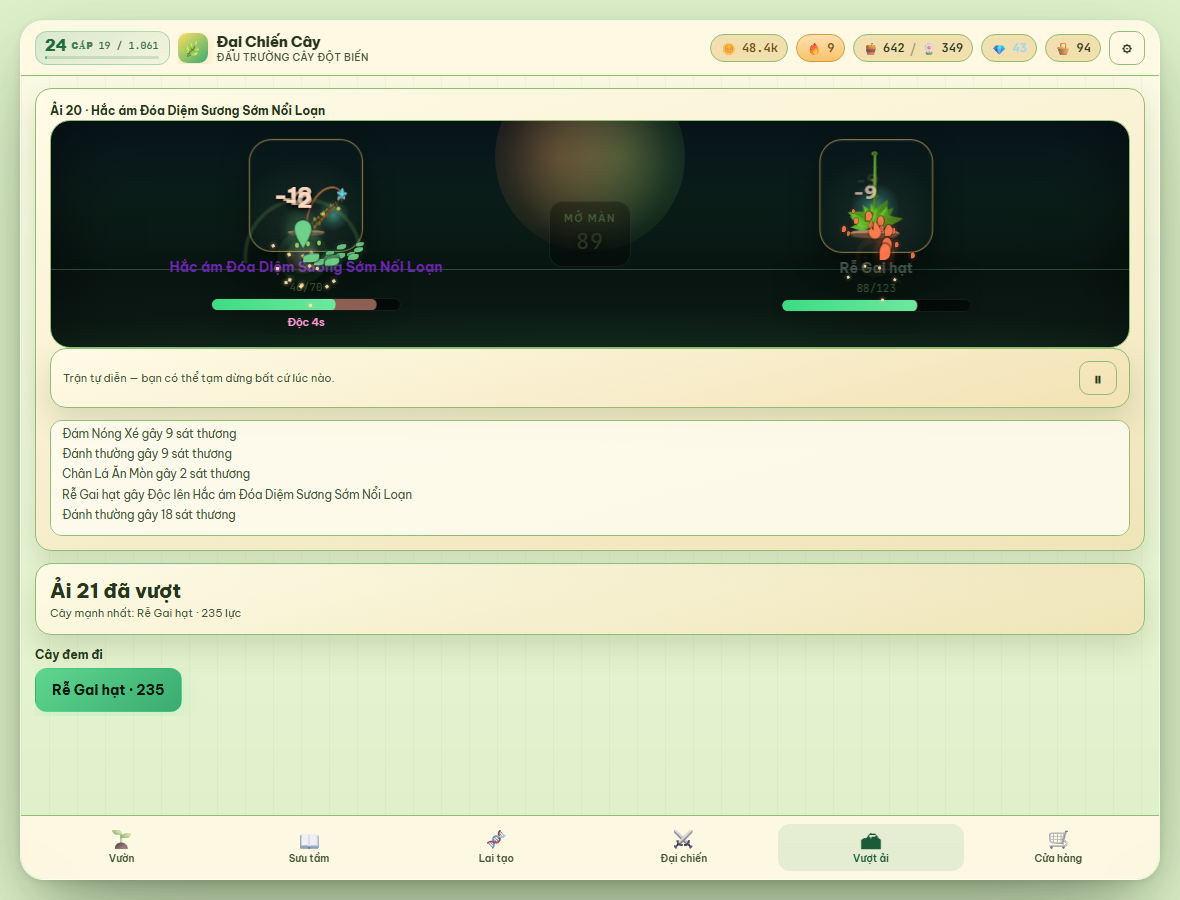
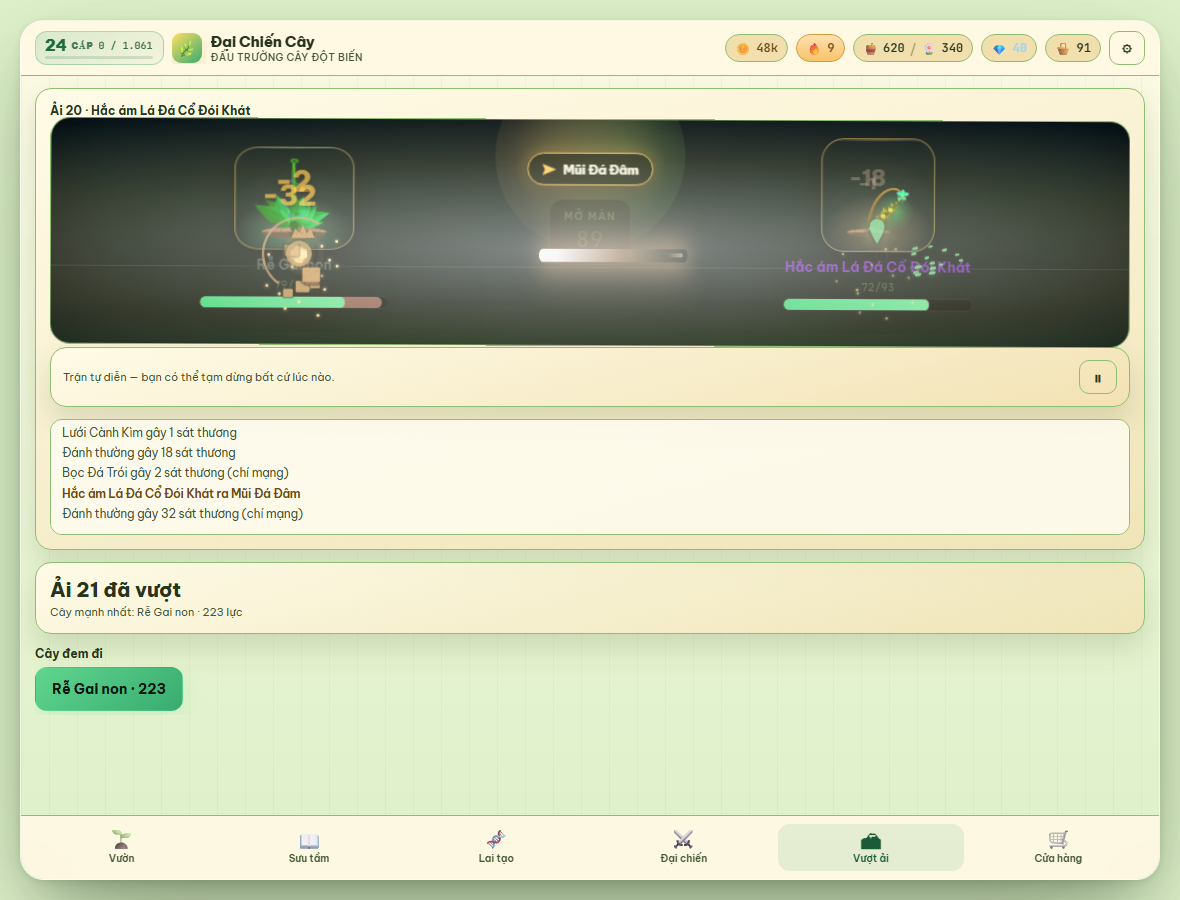
Stand on the left, plus a smoother shell
The player fought from the right, which is the side every battler
trained its players to read as "theirs". Mine now stands on the left:
the mirror moved from .enemy to .b-side (base art faces left, so the
fighter on the left is the one that needs flipping), the lunge keyframe
for the mirrored plant composes scaleX(-1) so it stays flipped through
its own attack, and knockback pushes off the side each fighter stands
on — keyed to mySide so the mirrored PvP view pushes the right way too.

Smoother shell: route changes rise-and-fade in (only on actual route
changes — every care action re-navigates to garden, and animating those
would breathe once per watering can); buttons lift a pixel on a real
hover pointer; plots lift before they sink on press.

Generated with [Devin](https://devin.ai)

Changed region(s): [[0.0305, 0.0311, 0.9763, 0.6844], [0.0305, 0.7156, 0.1525, 0.7778], [0.5797, 0.0311, 0.6407, 0.0622]]

diff --git a/src/styles.css b/src/styles.css
@@ -218,6 +218,24 @@ body {
   scrollbar-color: var(--line) transparent;
 }
 
+/* Route transitions: a short rise-and-fade when a different screen mounts.
+   Same-route repaints never get the class — every care action re-navigates to
+   "garden", and animating those would make the garden breathe once per
+   watering can. */
+.route-enter {
+  animation: routeIn 0.3s cubic-bezier(0.2, 0.9, 0.3, 1) both;
+}
+@keyframes routeIn {
+  from {
+    opacity: 0;
+    transform: translateY(10px);
+  }
+  to {
+    opacity: 1;
+    transform: none;
+  }
+}
+
 .garden-pulse {
   position: relative;
   overflow: hidden;
@@ -776,6 +794,14 @@ h4 {
   gap: 8px;
 }
 
+/* Hover lift is gated on a real pointer: on touch, :hover sticks after the
+   tap and the button would sit raised until something else was touched. */
+@media (hover: hover) {
+  .btn:hover:not(:disabled) {
+    transform: translateY(-1px);
+    filter: brightness(1.05);
+  }
+}
 .btn:active {
   transform: scale(0.975);
 }
@@ -973,8 +999,10 @@ h4 {
   gap: 8px;
   min-width: 0;
 }
-/* The enemy is mirrored so the two plants face each other across the clock. */
-.battler.enemy .avatar .plantart {
+/* The fighter on the left — yours — is mirrored so the two plants face each
+   other across the clock. The base art faces left, which is what the enemy on
+   the right wants already. */
+.battler.b-side .avatar .plantart {
   transform: scaleX(-1);
 }
 
@@ -1070,8 +1098,8 @@ h4 {
   transform: rotate(16deg) translateY(14px) scale(0.94);
   transition: transform 0.45s cubic-bezier(0.3, 0.7, 0.4, 1);
 }
-.battler.enemy.dead .avatar .plantart {
-  /* The enemy is mirrored, so the same fall needs the mirror composed in. */
+.battler.b-side.dead .avatar .plantart {
+  /* Your fighter is mirrored, so the same fall needs the mirror composed in. */
   transform: scaleX(-1) rotate(16deg) translateY(14px) scale(0.94);
 }
 .battler .avatar {
@@ -1789,7 +1817,10 @@ h4 {
   box-shadow: 0 22px 16px rgba(48, 78, 100, 0.3);
 }
 
-.plot:hover {
+/* :not(:active) keeps the press-sink honest — without it this rule outranks
+   .plot:active and a click would lift the island instead of pressing it. */
+.plot:hover:not(:active) {
+  transform: translateY(-3px);
   box-shadow: 0 38px 28px rgba(48, 78, 100, 0.34);
 }
 
@@ -2101,20 +2132,24 @@ h4 {
     transform: translateX(0) scale(1);
   }
 }
-.battler.b-enemy.attack .plantart {
-  animation-name: lunge-back;
+/* Your fighter attacks from the left: the lunge travels right, and because the
+   plant is mirrored the whole keyframe composes scaleX(-1) — otherwise the
+   sprite would un-flip for the duration of its own attack. */
+.battler.b-side.attack .plantart {
+  animation-name: lunge-mirror;
 }
-@keyframes lunge-back {
+@keyframes lunge-mirror {
   0% {
-    transform: translateX(0) scale(1);
+    transform: scaleX(-1) translateX(0) scale(1);
   }
   38% {
-    transform: translateX(14px) scale(1.06);
+    transform: scaleX(-1) translateX(-14px) scale(1.06);
   }
   100% {
-    transform: translateX(0) scale(1);
+    transform: scaleX(-1) translateX(0) scale(1);
   }
 }
+
 
 .plot .ribbon {
   position: absolute;

diff --git a/src/battle/battleView.ts b/src/battle/battleView.ts
@@ -260,7 +260,9 @@ estartTimer. */
     this.clock = el("div", { class: "clock" }, [`${this.maxSeconds}`]);
     center.append(this.phaseLabel, this.clock);
 
-    field.append(this.sides[other].root, center, this.sides[mine].root);
+    /* Mine reads from the left — the convention every battler on this planet
+       taught its players. The opponent stands on the right. */
+    field.append(this.sides[mine].root, center, this.sides[other].root);
 
     // The contact wash. Owned by the arena so the juice layer has something to
     // drive without reaching into the effects markup.
@@ -634,8 +636,12 @@ estartTimer. */
           const maxHp = Math.max(1, this.session.side(victim).snap.maxHp);
           const weight = weightFor(amount / maxHp, ev.isCrit === true, (ev.hpAfter ?? 1) <= 0);
           const attacker = (ev.side ?? (victim === "a" ? "b" : "a")) as FxSide;
-          // The victim is pushed away from whoever hit it.
-          const push = victim === "a" ? -1 : 1;
+          /* The victim is pushed away from whoever hit it — outward, off the
+             side of the screen it stands on. Mine always stands on the left
+             now, so the sign keys off mySide, not the engine's a/b: under a
+             mirrored view (the PvP guest) the engine's `a` is the fighter on
+             the right. */
+          const push = victim === this.opts.mySide ? -1 : 1;
           const cast = this.lastCast;
           // Reuse the cast's delivery and colour if it was recent enough to be the
           // same action, so a trap that armed and then erupts erupts as a trap.

diff --git a/tools/probe-side.ts b/tools/probe-side.ts
@@ -1,0 +1,33 @@
+import { chromium } from "playwright-core";
+
+async function main() {
+  const b = await chromium.launch({ channel: "chrome" });
+  const p = await b.newPage({ viewport: { width: 390, height: 844 } });
+  await p.goto("http://localhost:5173", { waitUntil: "networkidle" });
+  await p.waitForFunction(() => Boolean((window as unknown as { __game?: unknown }).__game), { timeout: 20000 });
+  await p.waitForTimeout(700);
+  await p.evaluate(`(() => {
+    const g = (window).__game, s = g.store;
+    s.state.breederLevel = 24;
+    s.state.leafCoin = 48000;
+    for (const pl of s.state.plants) { pl.growth.stage = "mature"; pl.growth.level = 20; }
+    s.state.ascent.highest = 21;
+    if (!s.state.ascent.day) s.state.ascent.day = new Date().toISOString().slice(0, 10);
+    g.navigate("ascent");
+  })()`);
+  await p.waitForTimeout(1100);
+  await p.evaluate(`(() => { document.querySelector("[data-stage-fight]")?.click(); })()`);
+  await p.waitForTimeout(700);
+  await p.evaluate(`(() => {
+    const b = [...document.querySelectorAll(".overlay button, .stagebrief button")].find((x) => /^Bắt đầu/.test((x.textContent || "").trim()));
+    if (b) b.click();
+  })()`);
+  await p.waitForTimeout(2600);
+  await p.screenshot({ path: "shots/probe-side.png" });
+  const order = await p.evaluate(() =>
+    Array.from(document.querySelectorAll(".battlefield .battler")).map((n) => (n.className.includes("enemy") ? "enemy" : "mine")),
+  );
+  console.log("battler order:", JSON.stringify(order));
+  await b.close();
+}
+main();

diff --git a/src/ui/app.ts b/src/ui/app.ts
@@ -98,6 +98,7 @@ let levelBadge: HTMLElement | null = null;
 let noticeHost: HTMLElement | null = null;
 
 let current: Screen = "garden";
+let lastRoute: Screen | null = null;
 let screenHost: HTMLElement;
 let navHost: HTMLElement;
 /** The wide-layout rails beside the screen. Empty panels collapse in CSS. */
@@ -169,7 +170,16 @@ function paint(params?: unknown) {
     ascent: renderAscent,
     lab: renderLab,
   }[current];
-  screenHost.appendChild(view(navigate, params));
+  const node = view(navigate, params);
+  /*
+   * A route change gets a soft entrance; a same-route repaint must stay
+   * instant. Every care action re-navigates to "garden", so animating those
+   * too would make the garden breathe once per watering can — motion that
+   * means nothing teaches the eye to ignore motion that does.
+   */
+  if (current !== lastRoute) node.classList.add("route-enter");
+  lastRoute = current;
+  screenHost.appendChild(node);
 
   /*
    * The desktop rails. Only the garden fills them — quests on the left, the
